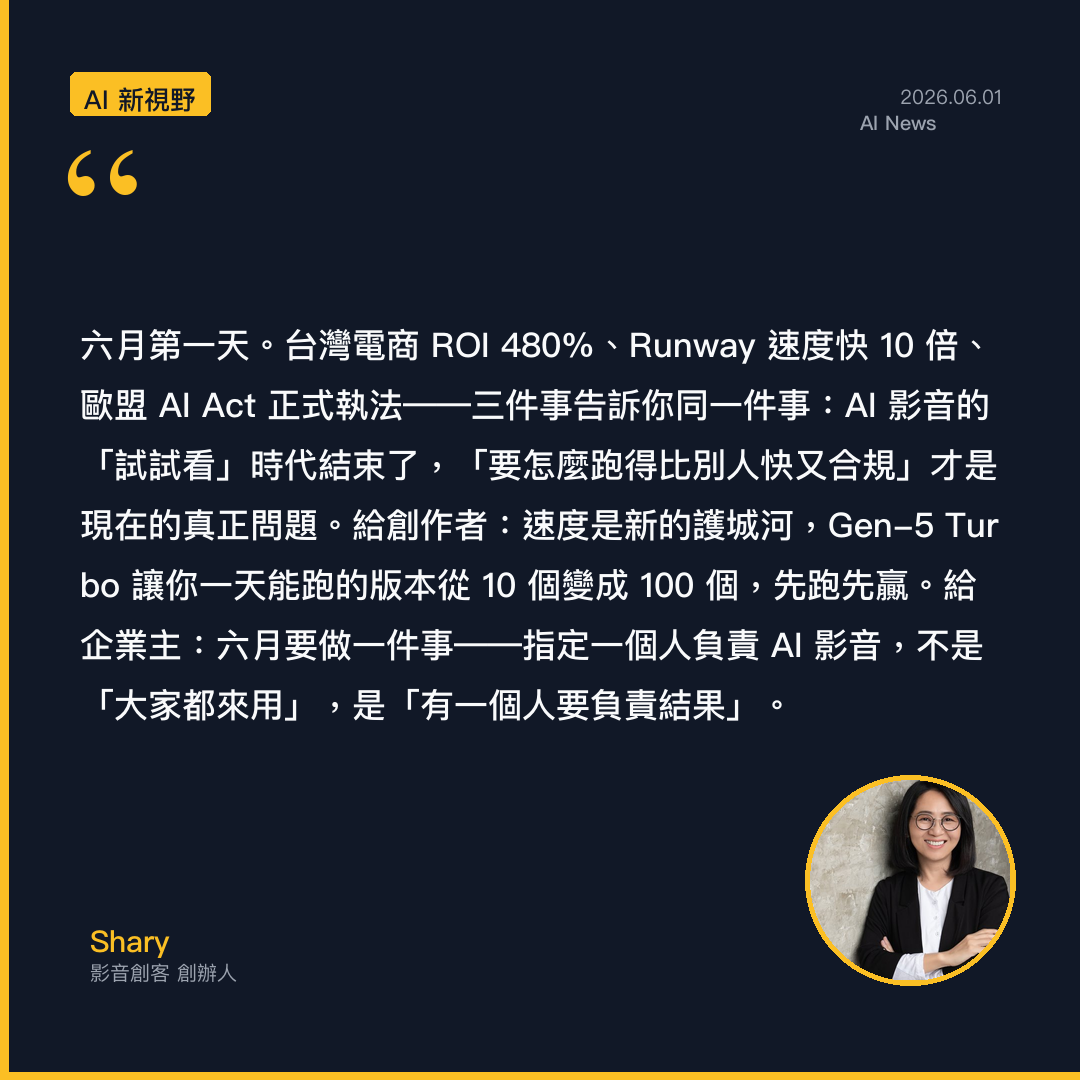
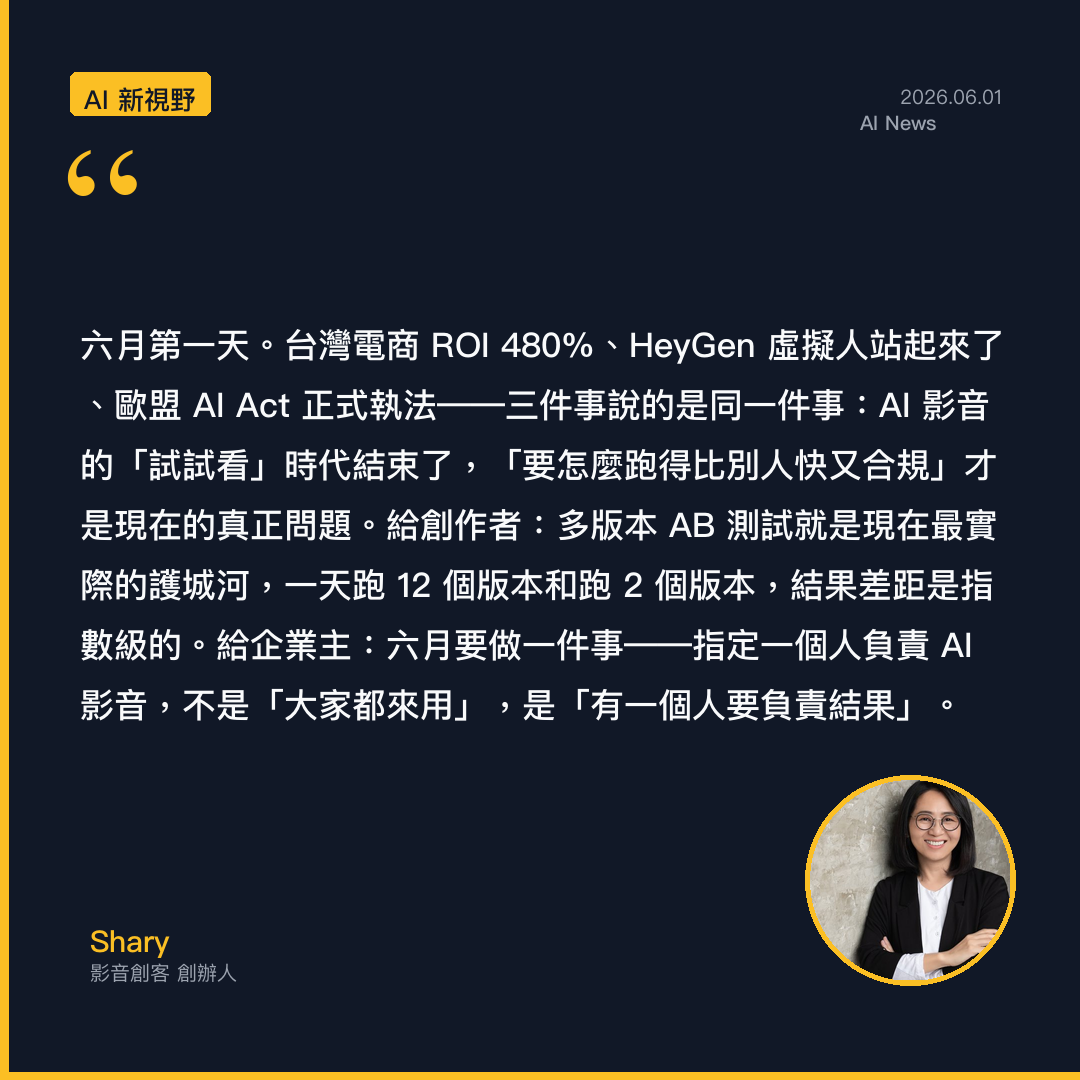
Remove all Runway Gen-5 references from 6/1 content
Updated files:
- sample_data/shary_voice-2026-06-01.csv: replace Runway with HeyGen
- output/2026-06-01/social-posts-2026-06-01.md: same fix in AI 新視野
- output/2026-06-01/ai-shinshi-ye-2026-06-01.png: regenerated (191KB)

New AI 新視野 centres on: 台灣電商 ROI 480% + HeyGen 虛擬人 + 歐盟 AI Act

Changed region(s): [[0.0611, 0.3056, 0.9167, 0.6722]]

diff --git a/output/2026-06-01/social-posts-2026-06-01.md b/output/2026-06-01/social-posts-2026-06-01.md
@@ -6,7 +6,7 @@
 
 ## ✍ AI 新視野（今日核心觀點）
 
-六月第一天。台灣電商 ROI 480%、Runway 速度快 10 倍、歐盟 AI Act 正式執法——三件事告訴你同一件事：AI 影音的「試試看」時代結束了，「要怎麼跑得比別人快又合規」才是現在的真正問題。給創作者：速度是新的護城河，Gen-5 Turbo 讓你一天能跑的版本從 10 個變成 100 個，先跑先贏。給企業主：六月要做一件事——指定一個人負責 AI 影音，不是「大家都來用」，是「有一個人要負責結果」。
+六月第一天。台灣電商 ROI 480%、HeyGen 虛擬人站起來了、歐盟 AI Act 正式執法——三件事說的是同一件事：AI 影音的「試試看」時代結束了，「要怎麼跑得比別人快又合規」才是現在的真正問題。給創作者：多版本 AB 測試就是現在最實際的護城河，一天跑 12 個版本和跑 2 個版本，結果差距是指數級的。給企業主：六月要做一件事——指定一個人負責 AI 影音，不是「大家都來用」，是「有一個人要負責結果」。
 
 > 同目錄 `ai-shinshi-ye-2026-06-01.png` 可直接發 IG / FB / Threads。
 
